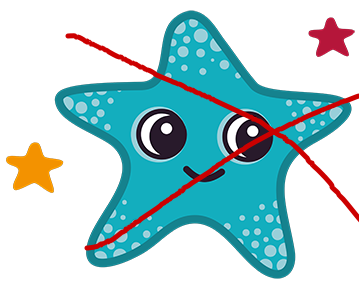
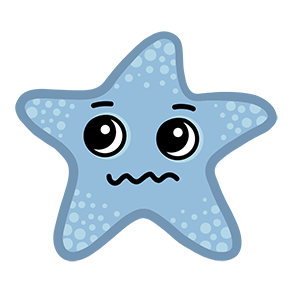
[fe] Adjust alternative code input layout
- Hide companion when no error is present
- hide illustration and move the keypad to the center

#1294

diff --git a/frontend/src/app/app-root/code-login/code-login.component.scss b/frontend/src/app/app-root/code-login/code-login.component.scss
@@ -2,8 +2,15 @@
   display: flex;
   height: 100%;
 
-  > * {
+  .form {
     width: 50%;
+
+    &.full-width {
+      width: 100%;
+    }
+  }
+
+  > * {
     padding: 24px;
   }
 
@@ -25,6 +32,10 @@
   display: flex;
   justify-content: center;
   background-color: var(--mat-sys-secondary);
+
+  &.hidden {
+    display: none;
+  }
 
   img {
     max-height: 70%;

diff --git a/frontend/src/app/shared/components/code-input/code-input.component.html b/frontend/src/app/shared/components/code-input/code-input.component.html
@@ -13,12 +13,12 @@
   </tc-code-keypad-form>
 }
 
-<div class="companion" [class.error]="problemText">
+<div class="companion" [class.error]="problemText"
+     [class.hidden]="inputType === 'keypad-symbols-alt' && problemText === ''">
   @if (inputType !== 'keypad-symbols-alt') {
     <img [src]="companionImageSrc" alt="Helper character" class="companion-image">
-  } @else {
-    <img [src]="problemText ? 'assets/images/companion_stars_error.png' : 'assets/images/companion_stars.png'"
-         alt="Helper character" class="companion-image">
+  } @else if (problemText) {
+    <img [src]="'assets/images/companion_stars_error.png'" alt="Helper character" class="companion-image">
   }
   @if (inputType !== 'keypad-symbols-alt') {
     <img src="assets/images/speech-bubble.svg" alt="speech bubble" class="companion-speech-bubble">

diff --git a/frontend/src/app/app-root/code-login/code-login.component.ts b/frontend/src/app/app-root/code-login/code-login.component.ts
@@ -16,7 +16,7 @@ import { AssetService } from '@shared/services/asset.service';
     CustomtextPipe
   ],
   template: `
-    <div class="form">
+    <div class="form" [class.full-width]="inputType === 'keypad-symbols-alt'">
       <tc-code-input [inputType]="inputType" [length]="length" [problemText]="problemText"
                      (submitCode)="onSubmit($event)">
         @if (inputType !== 'keypad-symbols-alt') {
@@ -27,7 +27,7 @@ import { AssetService } from '@shared/services/asset.service';
         }
       </tc-code-input>
     </div>
-    <div class="illustration">
+    <div class="illustration" [class.hidden]="inputType === 'keypad-symbols-alt'">
       <img [src]="assetService.getAssetSrc('codeInputIllustration')" alt="Code input illustration">
     </div>
   `,

diff --git a/frontend/src/app/shared/components/code-input/code-input.component.scss b/frontend/src/app/shared/components/code-input/code-input.component.scss
@@ -14,6 +14,10 @@
     margin-top: auto;
     position: relative;
 
+    &.hidden {
+      display: none;
+    }
+
     .companion-image {
       align-self: end;
       width: 174px;